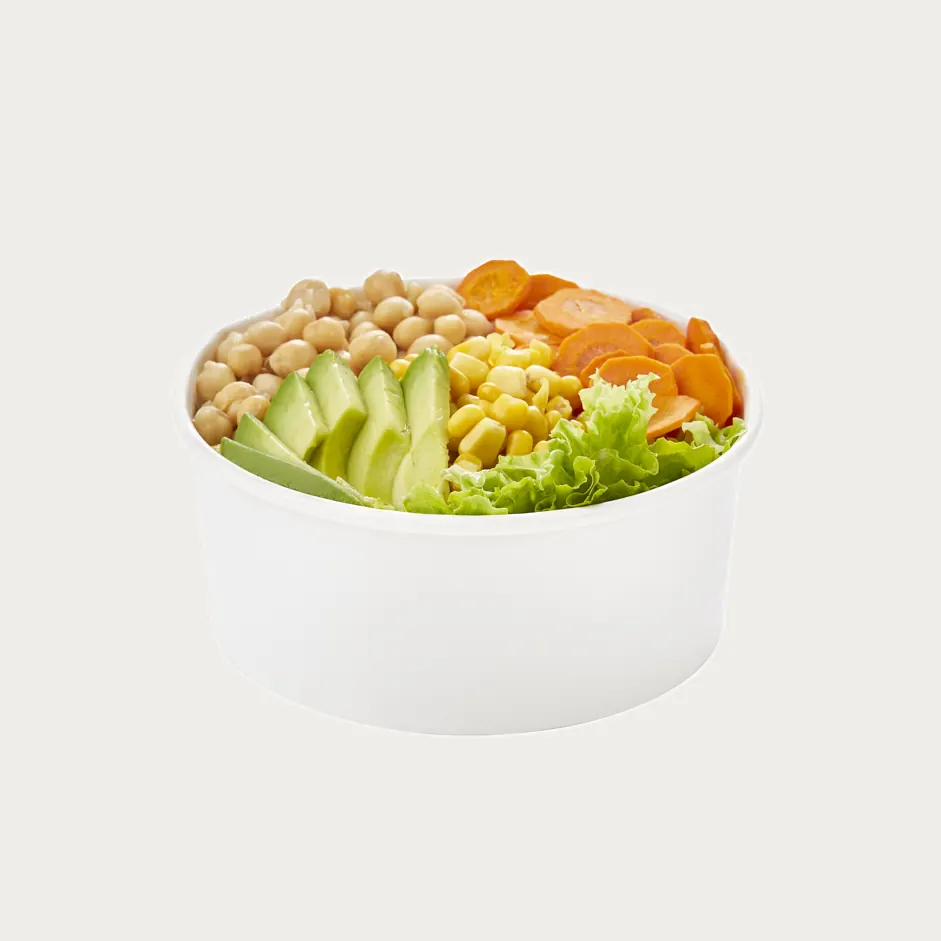
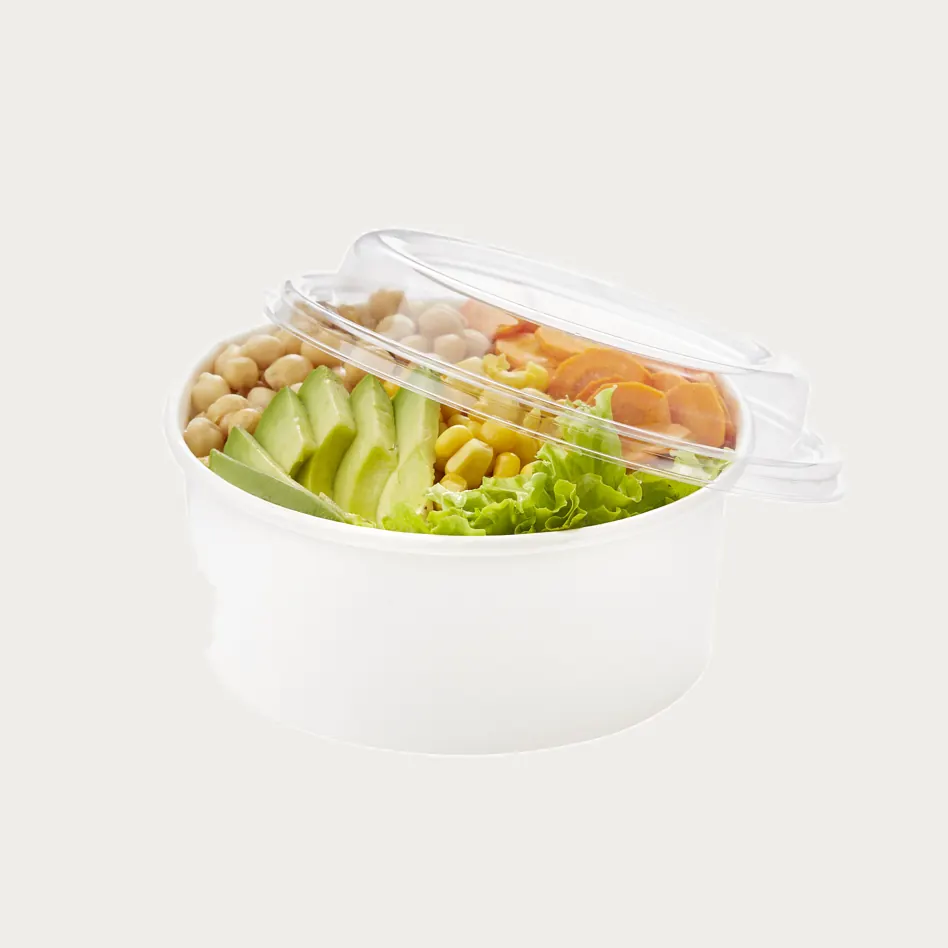
Update covers for flat lid and small salad bowl

Changed region(s): [[0.1849, 0.2157, 0.8013, 0.5855]]

diff --git a/scripts/build_catalog.py b/scripts/build_catalog.py
@@ -274,6 +274,8 @@ def prioritize_product_images(product):
         "vaso polipapel kraft 8 oz doble pared (237cc)": 2,
         "vaso polipapel blanco 8 oz doble pared (237cc)": 1,
         "tapa domo cristal sin perf o con perf para vaso 10-12-16-20oz": 2,
+        "tapa plana cristal sin perf o con perf para vaso 10-12-16-20oz": 2,
+        "ensaladera polipapel chica 25oz blanca": 2,
         "servilleta gastronomica blanca (18x18cm) eco (tissue) caja x0.7kg": 1,
         "vaso pet cristal 12 oz (360cc) sin tapa": 1,
         "vaso pet cristal 16 oz (473cc) sin tapa": 1,
